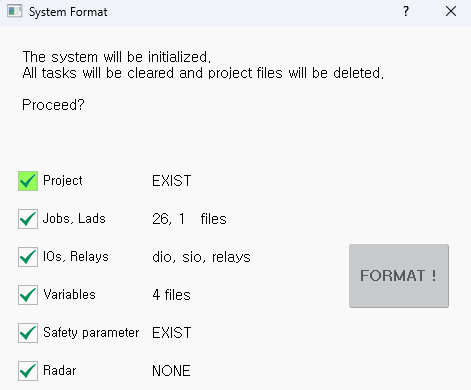
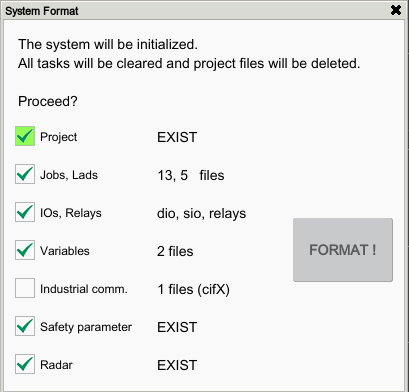
[HIAS-166] 시스템 초기화 시 CifX 설정 초기화 옵션 추가

diff --git a/7-system/6-initialization/1-system-format.md b/7-system/6-initialization/1-system-format.md
@@ -51,6 +51,13 @@
     </tr>
     <tr>
       <td style="text-align:left">
+        Industrial comm.
+      </td>
+      <td style="text-align:left">Whether to initialize all settings of industrial communication(cifX card).
+      </td>
+    </tr>
+    <tr>
+      <td style="text-align:left">
         Safety parameter
       </td>
       <td style="text-align:left">Whether to initialize safety parameter settings.
